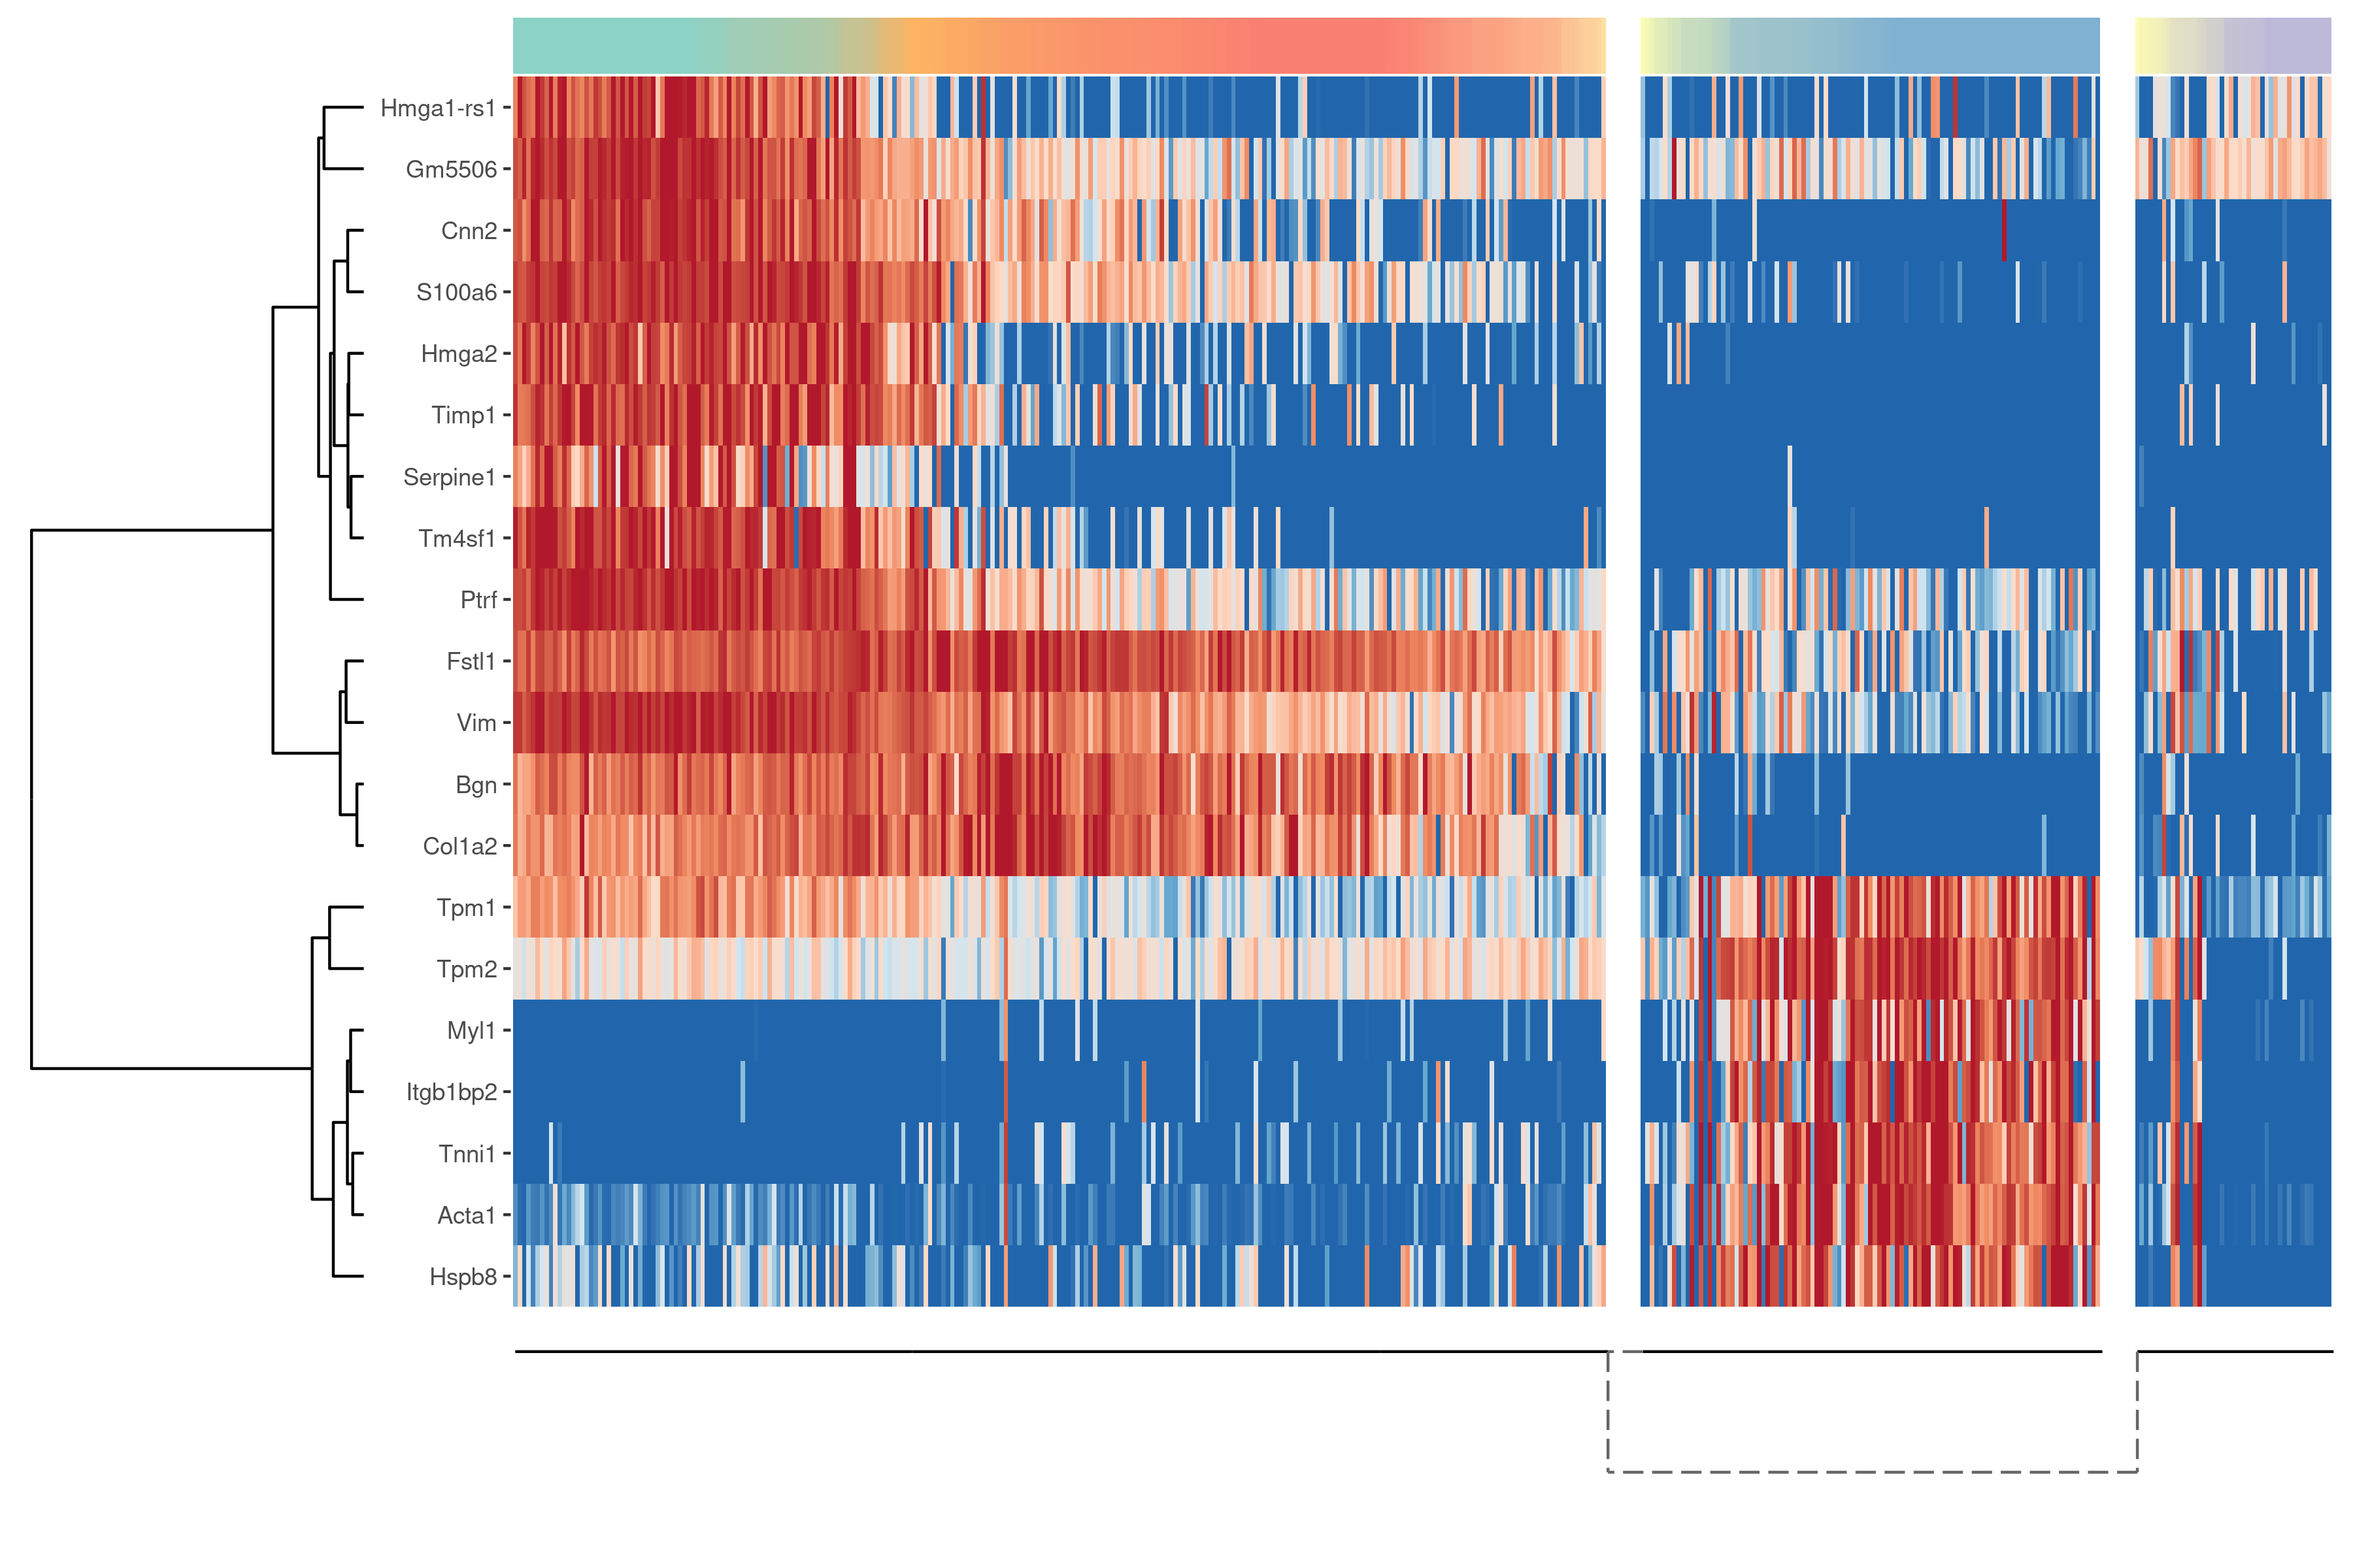
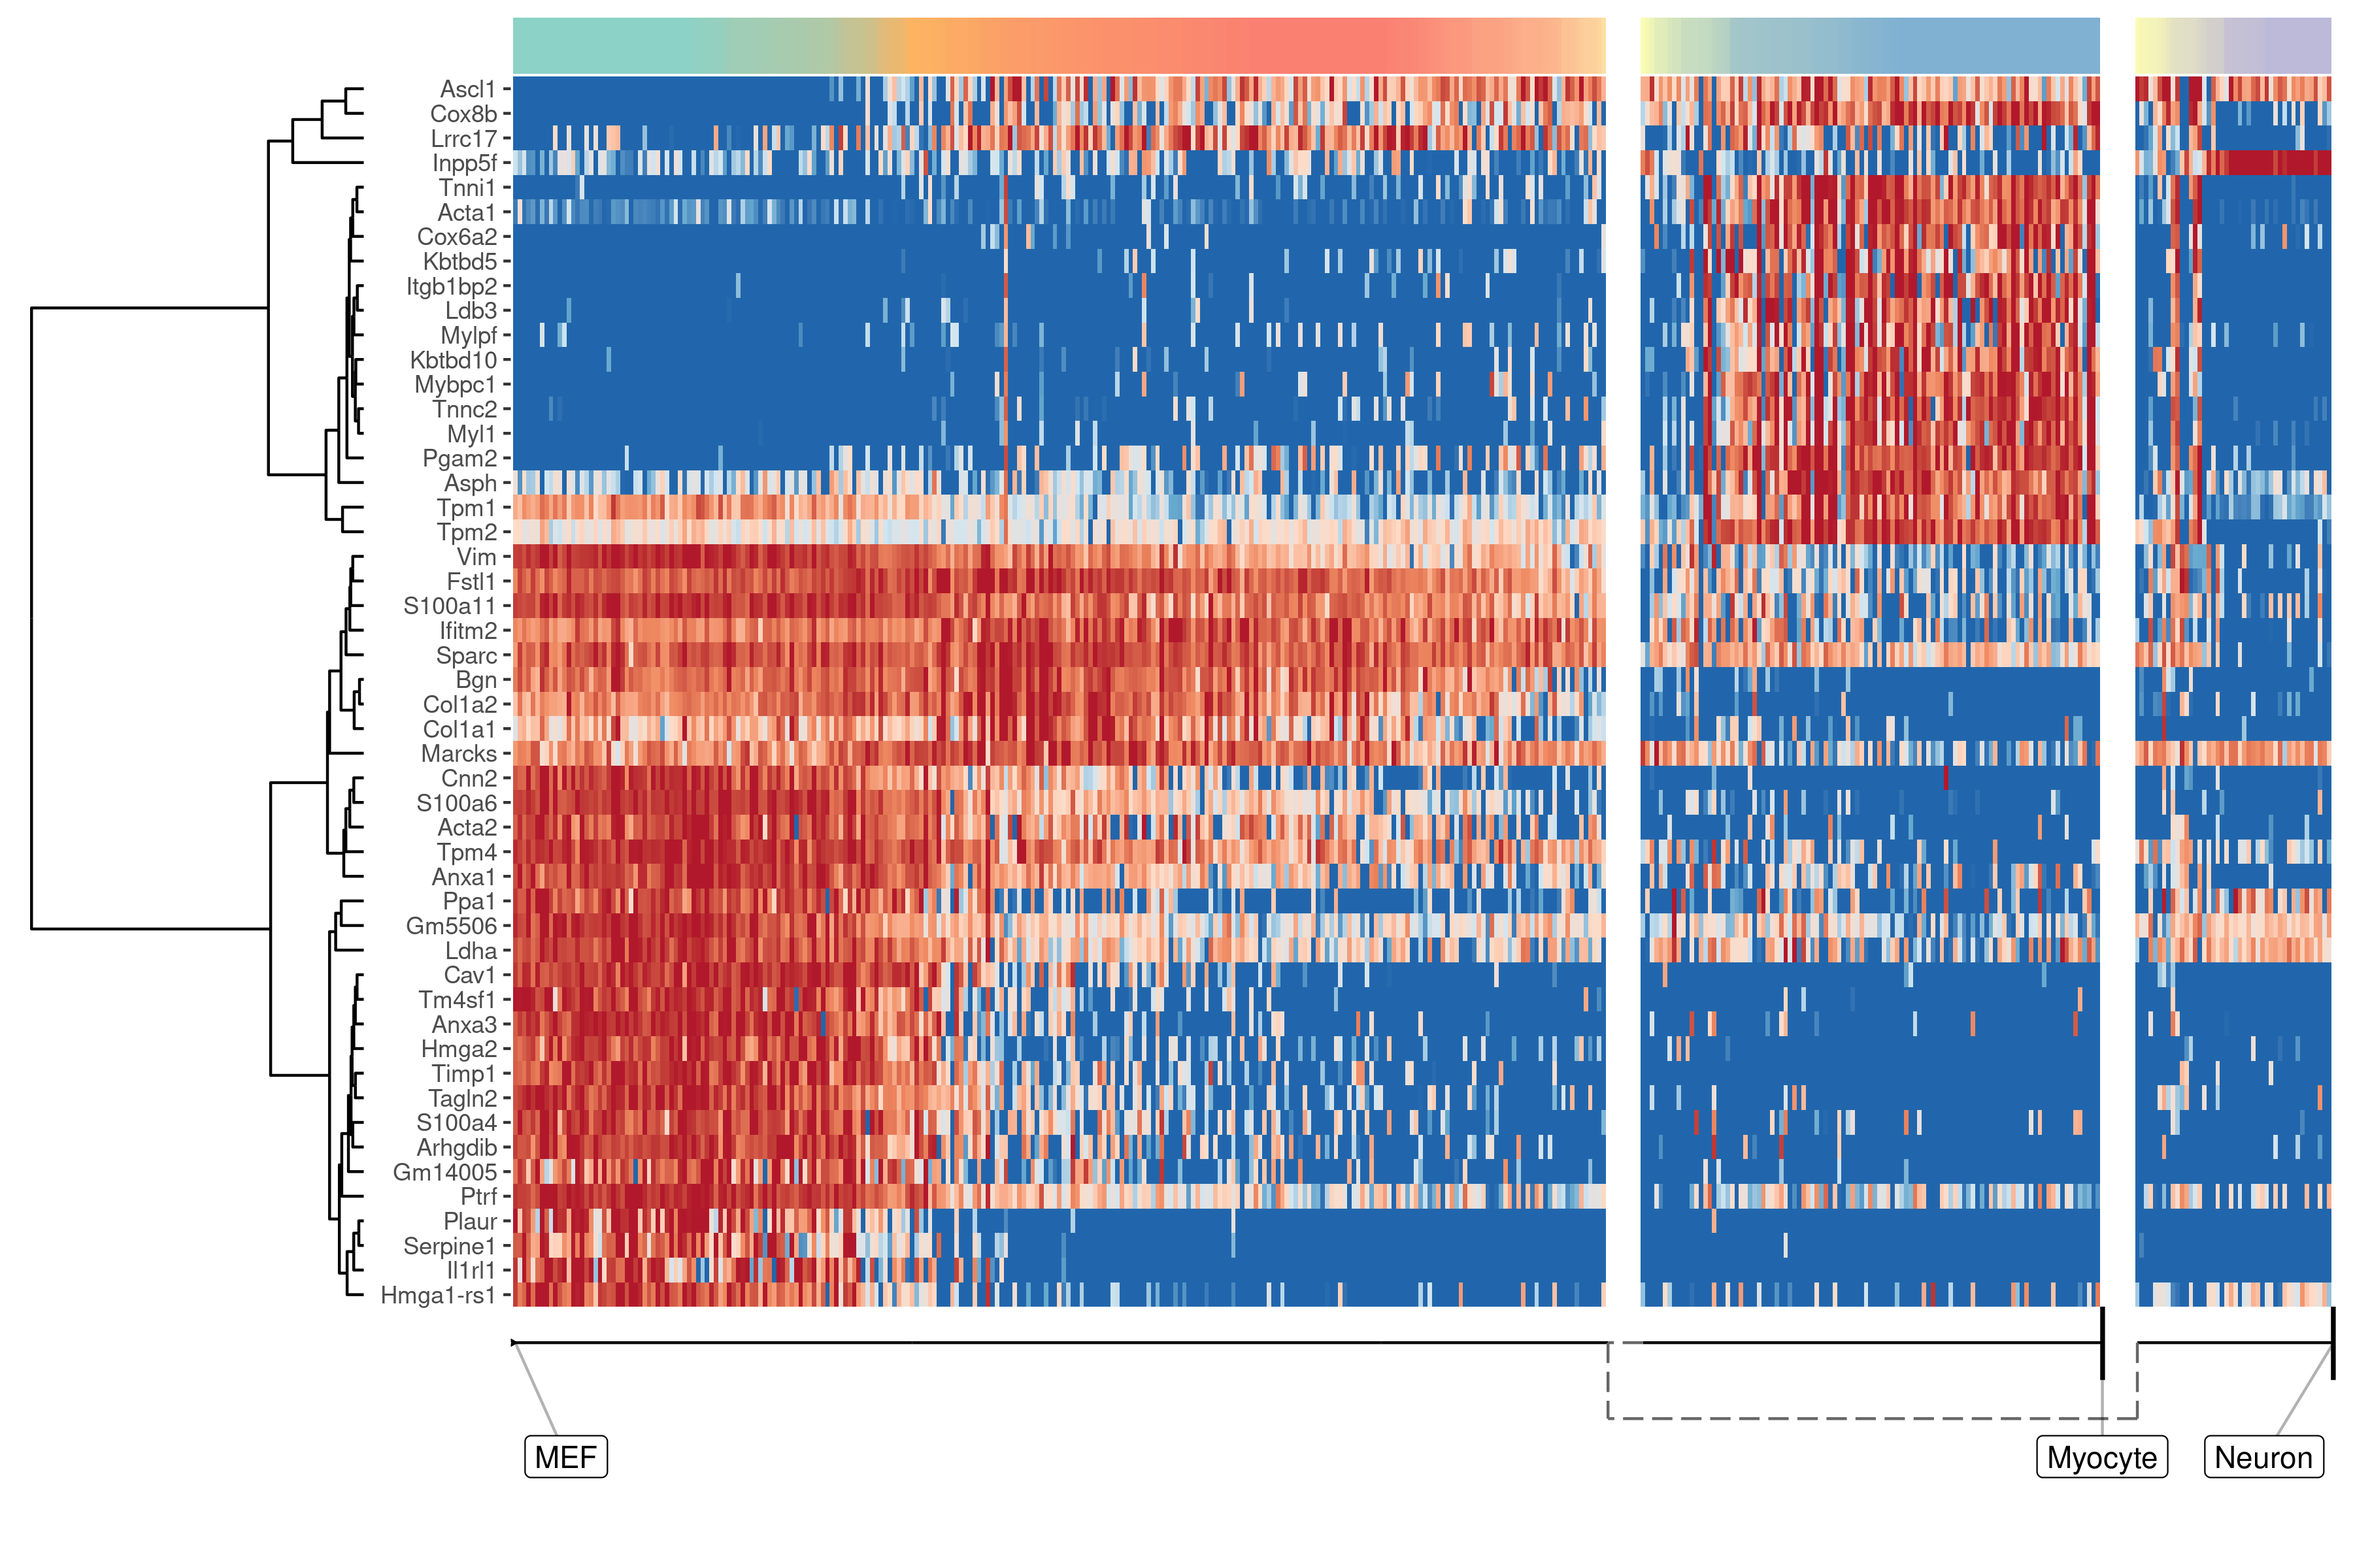
update readme

diff --git a/README.md b/README.md
@@ -6,7 +6,8 @@ Inferring trajectories using dyno <img src="docs/dyno.gif" align="right" />
     -   [Building the task](#building-the-task)
     -   [Selecting the most optimal TI methods](#selecting-the-most-optimal-ti-methods)
     -   [Running the methods](#running-the-methods)
-    -   [Rooting the trajectory](#rooting-the-trajectory)
+    -   [Making the trajectory interpretable](#making-the-trajectory-interpretable)
+    -   [Rooting](#rooting)
     -   [Plotting the trajectory](#plotting-the-trajectory)
     -   [Plotting relevant features](#plotting-relevant-features)
 -   [References](#references)
@@ -66,13 +67,31 @@ start_dynmethods_docker()
 model %<-% infer_trajectory(task, methods[[1]])
 ```
 
-### Rooting the trajectory
+### Making the trajectory interpretable
+
+In most cases, some knowledge is present of the different start, end or intermediary states present in the data, and this can be used to adapt the trajectory so that it is easier to interpret. We provide several functions
+
+### Rooting
 
 Most methods (although not all) have no direct way of inferring the directionality of the trajectory. In this case, the trajectory should be "rooted" using some external information, for example by using a set of marker genes.
 
 ``` r
 model <- model %>% 
-  add_root_using_expression(c("Msn", "Tpm4", "Anxa1", "Timp1", "Vim"), task$expression)
+  add_root_using_expression(c("Vim"), task$expression)
+```
+
+-   Milestone labelling
+
+...
+
+``` r
+model <- model %>% 
+  label_milestones(list(
+    MEF = c("Vim"),
+    Myocyte = c("Myl1"),
+    Neuron = c("Stmn3")
+  ),
+  task$expression)
 ```
 
 ### Plotting the trajectory
@@ -92,18 +111,69 @@ We integrate several methods to extract relevant genes from a trajectory.
 #### A global overview of the most predictive genes
 
 ``` r
-plot_heatmap(model, expression_source = task$expression, grouping_assignment = task$grouping, features_oi = 20)
+plot_heatmap(
+  model,
+  expression_source = task$expression,
+  grouping_assignment = task$grouping,
+  features_oi = 50
+)
 ```
 
 <img src="docs/figures/README-heatmap-1.png" width="100%" />
 
 #### Lineage/branch markers
 
-Available soon
+We can also extract features specific for a branch
+
+``` r
+branch_feature_importance <- calculate_branch_feature_importance(model, expression_source=task$expression)
+
+neuron_features <- branch_feature_importance %>% 
+  filter(to == which(model$milestone_labelling =="Neuron")) %>% 
+  top_n(50, importance) %>% 
+  pull(feature_id)
+```
+
+``` r
+plot_heatmap(
+  model, 
+  expression_source = task$expression, 
+  features_oi = neuron_features
+)
+```
+
+<img src="docs/figures/README-branch-1.png" width="100%" />
 
 #### Genes important at bifurcation points
 
-Available soon
+We can also extract features which change at the branching point
+
+``` r
+branching_milestone <- model$milestone_network %>% group_by(from) %>% filter(n() > 1) %>% pull(from) %>% first()
+
+branch_feature_importance <- calculate_branching_point_feature_importance(model, expression_source=task$expression, milestones_oi = branching_milestone)
+
+branching_point_features <- branch_feature_importance %>% top_n(20, importance) %>% pull(feature_id)
+
+plot_heatmap(
+  model,
+  expression_source = task$expression,
+  features_oi = branching_point_features
+)
+```
+
+<img src="docs/figures/README-branching_point-1.png" width="100%" />
+
+``` r
+space <- dimred_mds(task$expression)
+map(branching_point_features[1:12], function(feature_oi) {
+  plot_dimred(model, dimred_method = space, expression_source = task$expression, feature_oi = feature_oi) +
+    theme(legend.position = "none") +
+    ggtitle(feature_oi)
+}) %>% patchwork::wrap_plots()
+```
+
+<img src="docs/figures/README-branching_point_dimred-1.png" width="100%" />
 
 References
 ----------
